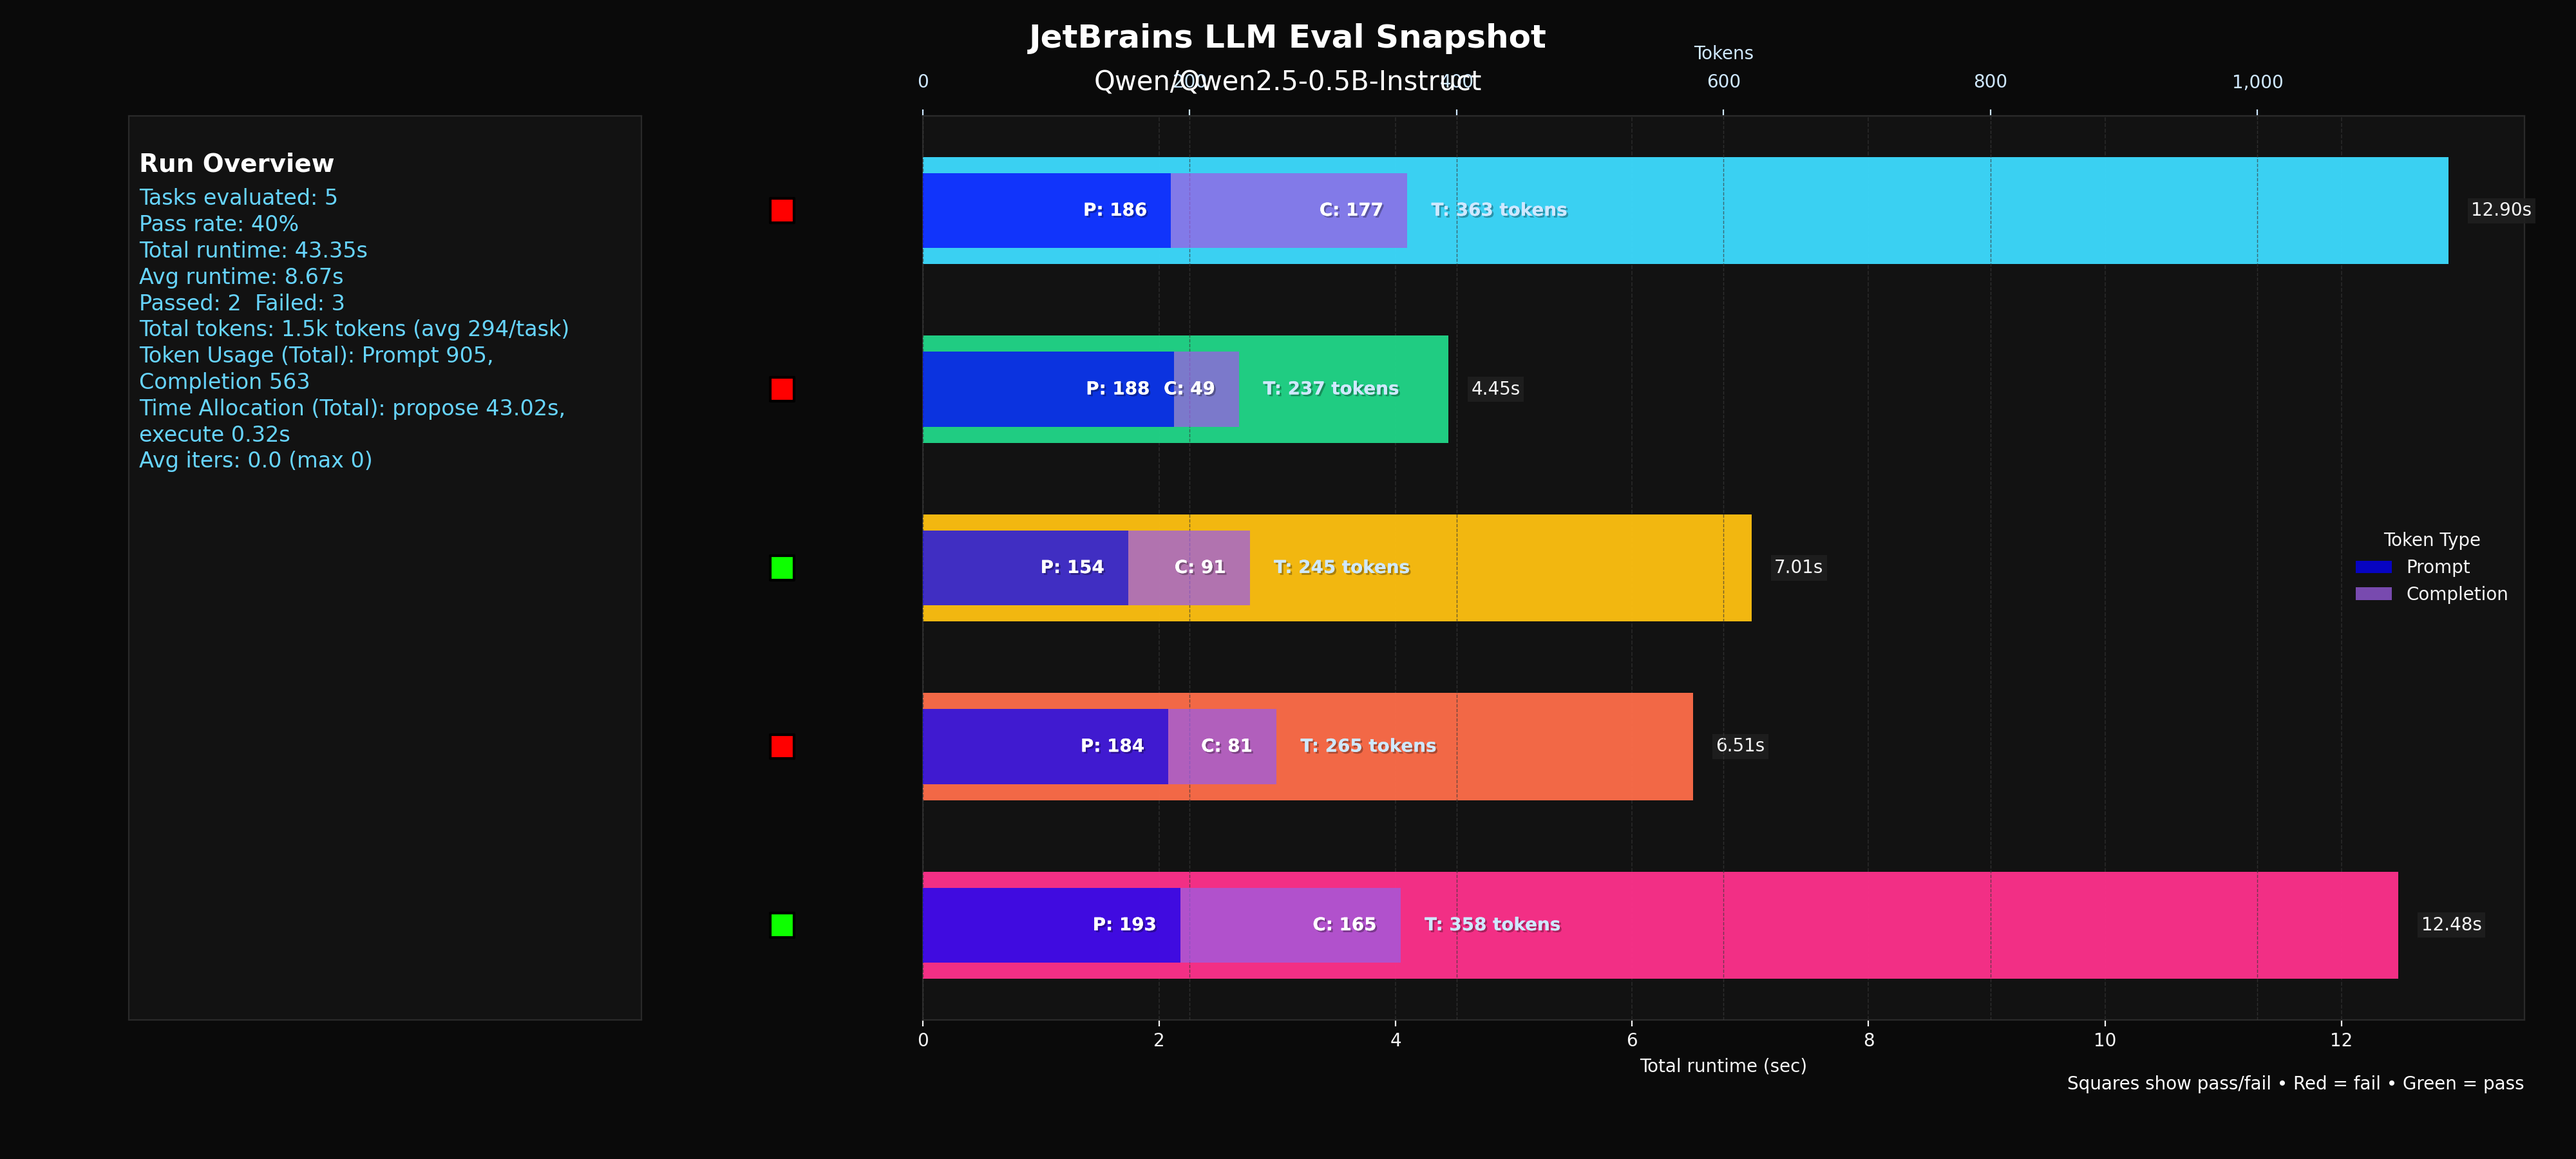
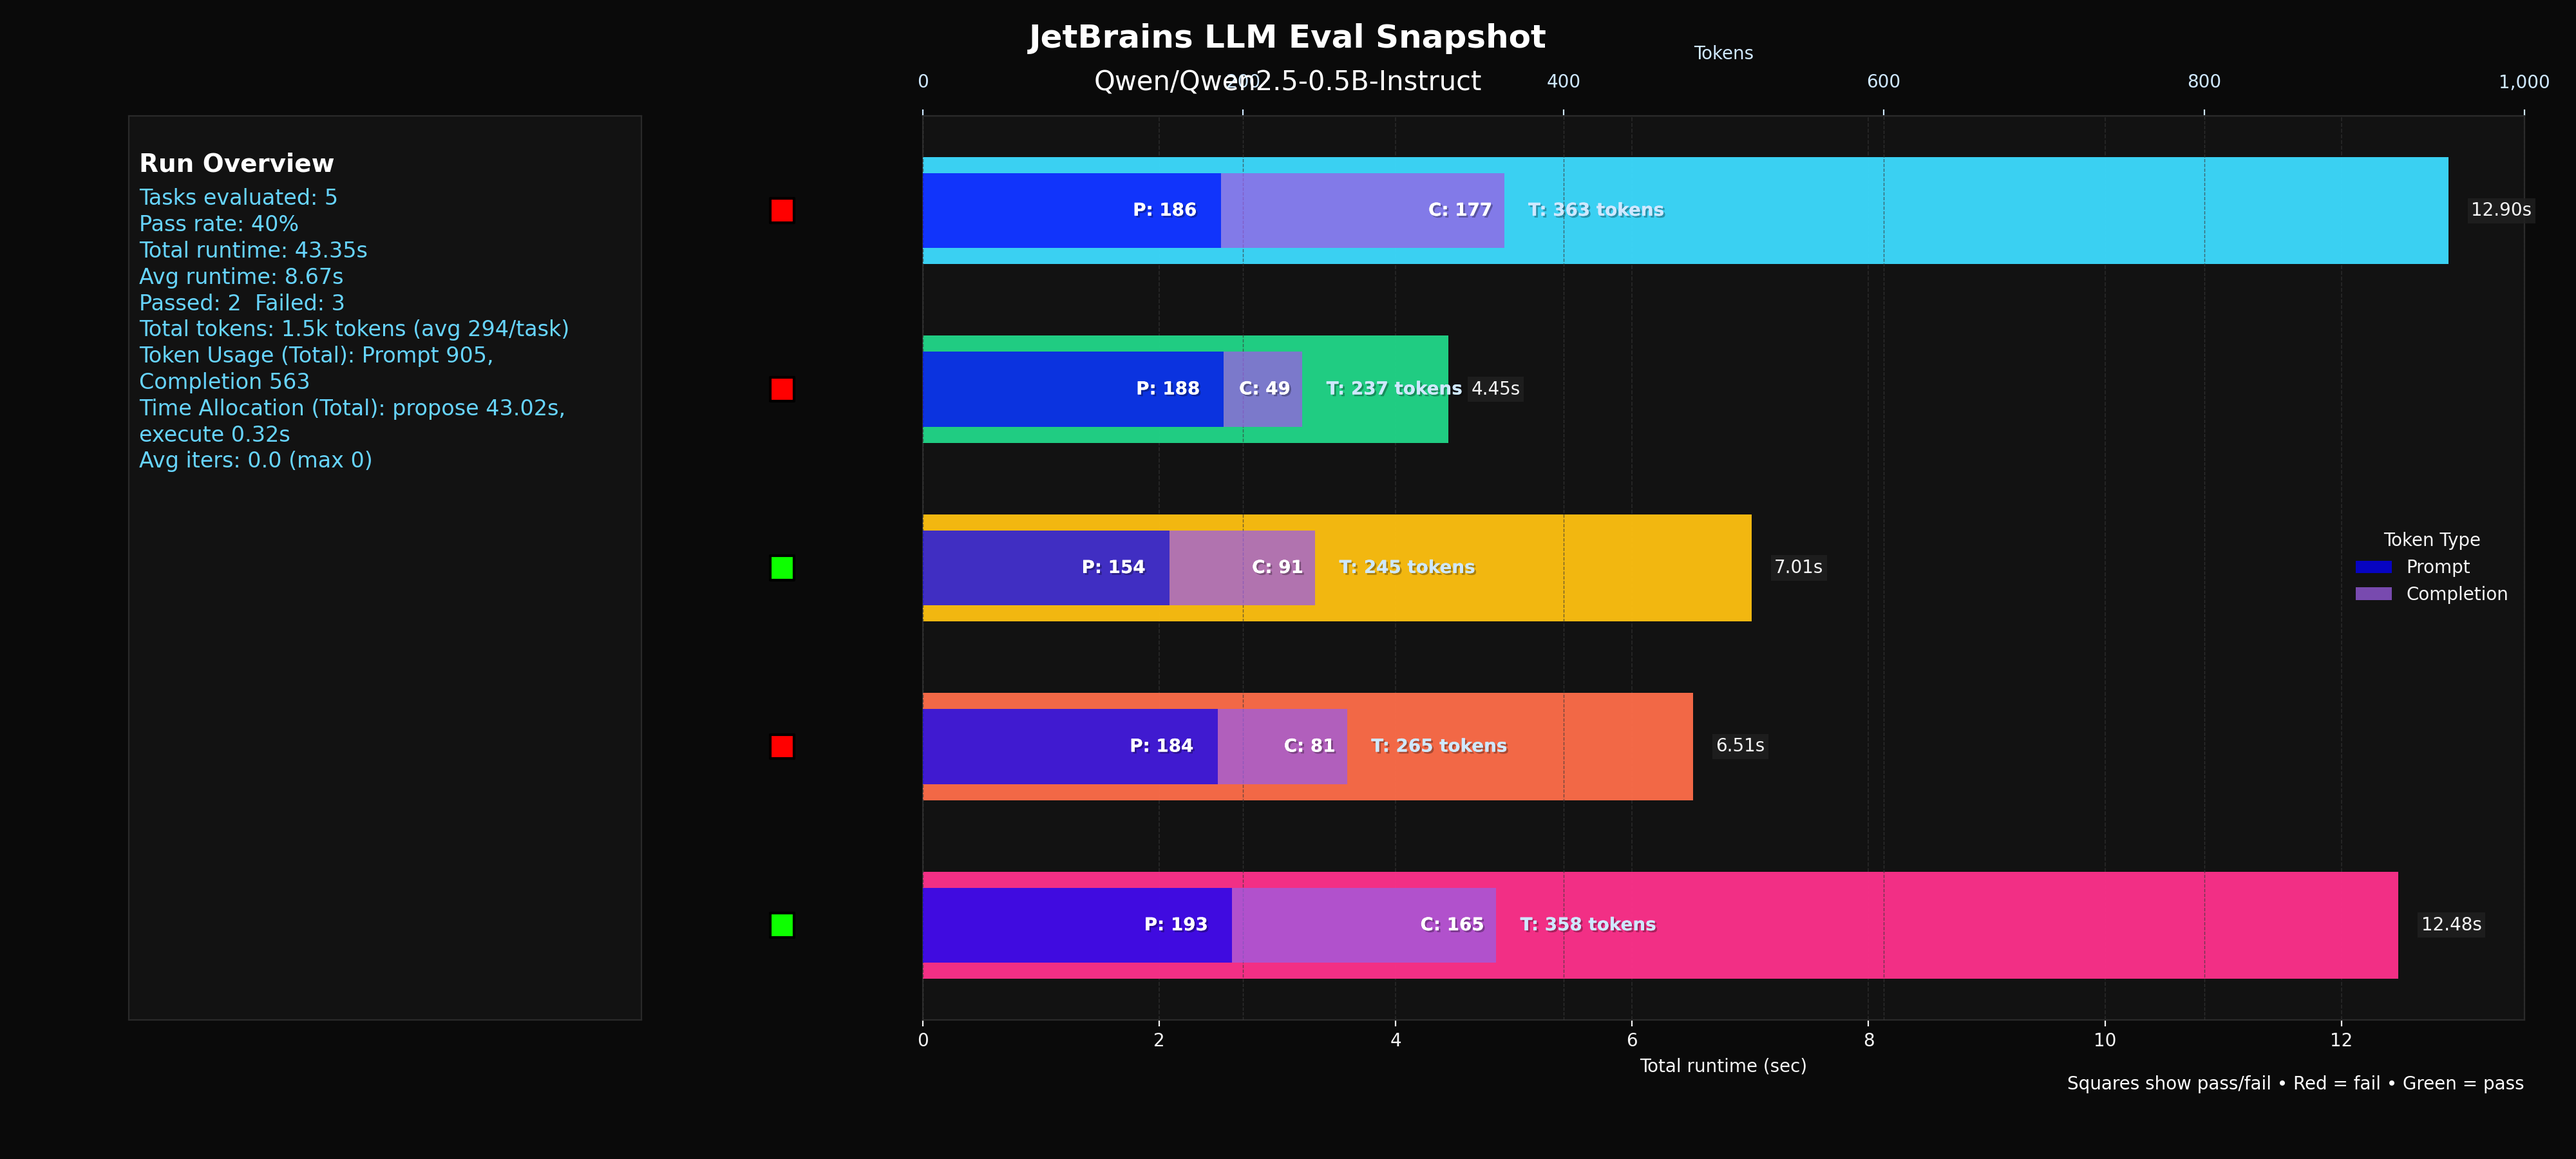
add padding for text and regenerate the plots

diff --git a/src/visualize_results.py b/src/visualize_results.py
@@ -389,10 +389,11 @@ def plot_results(
             prompt_text.set_path_effects(token_label_shadow)
 
         if completion_total_raw > 0 and completion_edge_scaled > prompt_edge_scaled:
+            completion_offset_scaled = padding_scaled * 0.5
             completion_text = ax_tokens.text(
-                completion_edge_scaled - padding_scaled,
+                completion_edge_scaled - completion_offset_scaled,
                 y_positions[idx_task],
-                f"C: {format_token_value(completion_total_raw)}",  # Use short formatter
+                f"  C: {format_token_value(completion_total_raw)}",  # Use short formatter with padding
                 **text_props_inside,
             )
             completion_text.set_path_effects(token_label_shadow)
